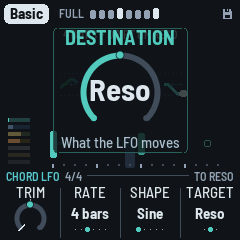
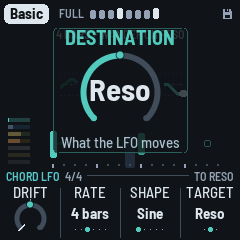
1.4.0: the LFO pages' Trim named Drift (the user's: as the layers' Vary on Form's Vary, the same name as the Form page's knob it scales), the Shape that was Drift (the wander alone) named Wander, and the Rate's; the trace's title ("4 BARS + WANDER ON CUTOFF"), the help lines, the reader, the manual,

diff --git a/web/emu/index.html b/web/emu/index.html
@@ -138,7 +138,7 @@ kbd { font: 600 .85em ui-monospace, Menlo, monospace; background: var(--card); b
 <section class="help" aria-label="How to play it">
   <div class="knobs">
     <h2>Pages and knobs</h2>
-    <p>One page a layer, each on its own button. The levels are on <b>OCT−</b> / <b>OCT+</b> (on a layer's page: 5 a press, held on; both together, quickly: the layer muted or back) and on the Arrangement page's channel strips (SEL, a part's white key held: its Level), whose meters show every part's level. <b>SELECT</b> is the DJ filter, on every page. The pages, as their buttons sit on the panel: Dub (FX), Chord (ENV), Bass (LFO), Setup (GLO), Form (HOME), Noise (SAVE), Pings (ARP), Drums (SEQ); the page's name is on the line above the knobs, at its left (with its place, 2/4), the voice at its right; the header shows where you are: the section and the phrase's eight bars, and in a song a hairline that is the whole song. A button with one page stays on it pressed again; one with several steps through them. Each layer's first page is its part (what it plays, and its <b>Vary</b>: a trim on the Form page's Vary, 0 following it, the far left Hold); its button pressed again opens its <b>voice page</b>: four knobs that shape its sound, most 0 in the middle (the voice as it is), −50 to +50 (the chord's Attack and the pings' Bend 0 to 100, from the voice's own); the drums have two, Kick and Hats. A third press opens its <b>FM page</b>: the algorithm (drawn on the screen), the upper operators' ratio, the feedback (on an FM voice); the chord's has its <b>Colour</b> too and the bass's its <b>Bite</b>, on every voice. The chord's four pages: <b>Chord</b> (Density, Throws, Change, Vary), <b>Chord voice</b> (Cutoff, Reso, Attack, Decay), <b>Chord FM</b> (Algo, Ratio, Feedback, Colour) and <b>Chord LFO</b>, its slow movement: a wave in time with the music and a slow random wander with it, like a hand riding the filter, as much as the Form page's <b>Drift</b> says (<b>Trim</b>: more or less than Drift, 0 as Drift, the far left still; Rate, 1 to 32 bars; Shape, the last <b>Drift</b>: the wander alone; <b>Target</b>, where it goes: Cutoff, Reso or Colour, the knob it moves showing it, also on ALGORITHM; the screen draws the path over the last 16 bars, at one scale: it grows and shrinks with Drift and the Trim). The noise has one too (SAVE a third time); the bass and the pings have none. A knob centred on 0 stops there on its way through (three clicks to leave it). On a layer's page, <b>ALGORITHM</b> changes its voice (the chord: Saws, Keys, Organ, Pad, Bell, Tonewheel, Noise; the pings: Blip, Marimba, Glass, Wood, Drop; the bass: Sub, Punch, Rubber, Pluck, Growl; the drums' kit: Tight, Deep, Punch, Soft, Dusty). Each piece remembers its own settings.</p>
+    <p>One page a layer, each on its own button. The levels are on <b>OCT−</b> / <b>OCT+</b> (on a layer's page: 5 a press, held on; both together, quickly: the layer muted or back) and on the Arrangement page's channel strips (SEL, a part's white key held: its Level), whose meters show every part's level. <b>SELECT</b> is the DJ filter, on every page. The pages, as their buttons sit on the panel: Dub (FX), Chord (ENV), Bass (LFO), Setup (GLO), Form (HOME), Noise (SAVE), Pings (ARP), Drums (SEQ); the page's name is on the line above the knobs, at its left (with its place, 2/4), the voice at its right; the header shows where you are: the section and the phrase's eight bars, and in a song a hairline that is the whole song. A button with one page stays on it pressed again; one with several steps through them. Each layer's first page is its part (what it plays, and its <b>Vary</b>: a trim on the Form page's Vary, 0 following it, the far left Hold); its button pressed again opens its <b>voice page</b>: four knobs that shape its sound, most 0 in the middle (the voice as it is), −50 to +50 (the chord's Attack and the pings' Bend 0 to 100, from the voice's own); the drums have two, Kick and Hats. A third press opens its <b>FM page</b>: the algorithm (drawn on the screen), the upper operators' ratio, the feedback (on an FM voice); the chord's has its <b>Colour</b> too and the bass's its <b>Bite</b>, on every voice. The chord's four pages: <b>Chord</b> (Density, Throws, Change, Vary), <b>Chord voice</b> (Cutoff, Reso, Attack, Decay), <b>Chord FM</b> (Algo, Ratio, Feedback, Colour) and <b>Chord LFO</b>, its slow movement: a wave in time with the music and a slow random wander with it, like a hand riding the filter, as much as the Form page's <b>Drift</b> says (<b>Drift</b>: more or less than Form's Drift, 0 as Form's, the far left still; Rate, 1 to 32 bars; Shape, the last <b>Wander</b>: the wander alone; <b>Target</b>, where it goes: Cutoff, Reso or Colour, the knob it moves showing it, also on ALGORITHM; the screen draws the path over the last 16 bars, at one scale: it grows and shrinks in height with Form's Drift and the page's). The noise has one too (SAVE a third time); the bass and the pings have none. A knob centred on 0 stops there on its way through (three clicks to leave it). On a layer's page, <b>ALGORITHM</b> changes its voice (the chord: Saws, Keys, Organ, Pad, Bell, Tonewheel, Noise; the pings: Blip, Marimba, Glass, Wood, Drop; the bass: Sub, Punch, Rubber, Pluck, Growl; the drums' kit: Tight, Deep, Punch, Soft, Dusty). Each piece remembers its own settings.</p>
     <div class="pages">
       <div>
         <h3>Form <span>HOME</span></h3>
@@ -173,7 +173,7 @@ kbd { font: 600 .85em ui-monospace, Menlo, monospace; background: var(--card); b
       <div>
         <h3>Noise <span>SAVE</span></h3>
         <dl>
-          <dt>Density, Vary</dt><dd>A crackle groove ringing on the chord: how many hits in two bars; how often the groove is drawn anew.</dd><dt>SAVE again: Noise voice</dt><dd>Air (the quiet hiss under it), Tone (the rings darker or brighter), Decay (how long each hit rings), Width (mono to wide). Its level on OCT− / OCT+; its plate and echo its channel strip's (the Arrangement page, white 5 held). ALGORITHM its character: Vinyl, Tape, Dust, Room, Machine.</dd><dt>SAVE a third time: Noise LFO</dt><dd>The noise moving, as the Chord LFO: Trim (on the Form page's Drift), Rate, Shape (the last, Drift, the wander alone), Target: Filter (a low-pass on the whole noise), Tone or Air (ALGORITHM too).</dd>
+          <dt>Density, Vary</dt><dd>A crackle groove ringing on the chord: how many hits in two bars; how often the groove is drawn anew.</dd><dt>SAVE again: Noise voice</dt><dd>Air (the quiet hiss under it), Tone (the rings darker or brighter), Decay (how long each hit rings), Width (mono to wide). Its level on OCT− / OCT+; its plate and echo its channel strip's (the Arrangement page, white 5 held). ALGORITHM its character: Vinyl, Tape, Dust, Room, Machine.</dd><dt>SAVE a third time: Noise LFO</dt><dd>The noise moving, as the Chord LFO: Drift (on the Form page's Drift), Rate, Shape (the last, Wander, the wander alone), Target: Filter (a low-pass on the whole noise), Tone or Air (ALGORITHM too).</dd>
         </dl>
       </div>
       <div>
@@ -344,8 +344,8 @@ function hit(c, cls, attrs, parent = controls) {
 }
 // what each control does (the Buttons list below says the same); a page button's light is its page, PLAY's
 // playing, REC's dub hold: those are toggle buttons (aria-pressed), the others plain ones
-const TIP = { FX: "The Dub page: the echo and the plate; again, the Echo page (Blur, Tone, Size, Cloud).", SEL: "The Arrangement page: every part's level on a meter; the knobs are Width, Wet and Duck (the dub mixer's rides the Form page's Drift); the white keys 1 to 6 mute the parts (the chord, pings, bass, kick, hats, noise; held: that part's channel strip, its Level, Echo, Plate and Filter), the black keys 1 to 5 (the part of the white key on their left; the kick none) solo a part with a tap and throw it into the echo held, white 7 is the gap, white 8 to 11, held, make the dub moves (open, shut, drop, echo), and white 12 to 16, held, five of the grid's effects. Held: Lock, the groove kept phrase after phrase.", ENV: "The Chord page (Density, Throws, Change, Vary); again, Chord voice (Cutoff around the piece's own, Reso, Attack, Decay); again, Chord FM (Algo, Ratio, Feedback, Colour); again, Chord LFO (Trim, Rate, Shape, Target; ALGORITHM its Target too).", LFO: "The Bass page (Groove, Vary, Density, Fifth); again, Bass voice (Octave, Shape, Gate, Glide); again, Bass FM (Algo, Ratio, Feedback, Bite).", EDIT: "A tap: the Chords page, eight slots (KNOB 1 the slot, the keys its root, KNOB 2 its kind, KNOB 3 its type, KNOB 4 Play: Endless, the walk writing slot 8 as they move up, or Loop, the eight in turn). Held: the next chord.",
-  GLO: "The Setup page; again, Song mode (Endless, Song, Set). Held: saves all eight pieces; held on: the piece back to its recipe.", HOME: "The Form page (Energy, Vary, Motion, Drift); again, the Song page (Intro, Main, Outro, Kind); again, the Key page (tempo, root, mode, swing). Held with PLAY: the outro from the next phrase (again: back to the main). Held on (1.5 s): a shake of everything. Hold it and turn SELECT for the tempo.", SAVE: "The Noise page: Density, Vary; ALGORITHM its character. Again: Noise voice (Air, Tone, Decay, Width); again: Noise LFO (Trim, Rate, Shape, Target; ALGORITHM its Target too). Held: a nudge to the noise; held on: a shake.",
+const TIP = { FX: "The Dub page: the echo and the plate; again, the Echo page (Blur, Tone, Size, Cloud).", SEL: "The Arrangement page: every part's level on a meter; the knobs are Width, Wet and Duck (the dub mixer's rides the Form page's Drift); the white keys 1 to 6 mute the parts (the chord, pings, bass, kick, hats, noise; held: that part's channel strip, its Level, Echo, Plate and Filter), the black keys 1 to 5 (the part of the white key on their left; the kick none) solo a part with a tap and throw it into the echo held, white 7 is the gap, white 8 to 11, held, make the dub moves (open, shut, drop, echo), and white 12 to 16, held, five of the grid's effects. Held: Lock, the groove kept phrase after phrase.", ENV: "The Chord page (Density, Throws, Change, Vary); again, Chord voice (Cutoff around the piece's own, Reso, Attack, Decay); again, Chord FM (Algo, Ratio, Feedback, Colour); again, Chord LFO (Drift, Rate, Shape, Target; ALGORITHM its Target too).", LFO: "The Bass page (Groove, Vary, Density, Fifth); again, Bass voice (Octave, Shape, Gate, Glide); again, Bass FM (Algo, Ratio, Feedback, Bite).", EDIT: "A tap: the Chords page, eight slots (KNOB 1 the slot, the keys its root, KNOB 2 its kind, KNOB 3 its type, KNOB 4 Play: Endless, the walk writing slot 8 as they move up, or Loop, the eight in turn). Held: the next chord.",
+  GLO: "The Setup page; again, Song mode (Endless, Song, Set). Held: saves all eight pieces; held on: the piece back to its recipe.", HOME: "The Form page (Energy, Vary, Motion, Drift); again, the Song page (Intro, Main, Outro, Kind); again, the Key page (tempo, root, mode, swing). Held with PLAY: the outro from the next phrase (again: back to the main). Held on (1.5 s): a shake of everything. Hold it and turn SELECT for the tempo.", SAVE: "The Noise page: Density, Vary; ALGORITHM its character. Again: Noise voice (Air, Tone, Decay, Width); again: Noise LFO (Drift, Rate, Shape, Target; ALGORITHM its Target too). Held: a nudge to the noise; held on: a shake.",
   ARP: "The Pings page (Density, Vary); again, Pings voice (Octave, Tone, Length, Bend); again, Pings FM (Algo, Ratio, Feedback, Upper).", SEQ: "The Drums page (Kick, Hits, Vary). Again: Kick (Tune, Length, Punch, Rumble); again: Hats (Level, Tone, Length); again: the Pattern page (five lanes, sixteen steps on the white keys).", PLAY: "Play or rest (in Song or Set mode, a song from its intro). With HOME held: the outro.", REC: "Tap: dub hold (the echo and the cloud repeat what they hold; the chord holds). Hold: the effects grid, played on the white keys.",
   "OCT-": "On a layer's page, its level down (held: on). With OCT+, quickly: the layer muted or back.", "OCT+": "On a layer's page, its level up (held: on). With OCT-, quickly: the layer muted or back.", SELECT: "The DJ filter, on every page: left shut, right open, Off in the middle. With HOME held, the tempo.",
   ALGORITHM: "On a layer's page, its voice; on the Chords page, the walk; elsewhere, the screen (ripples, scope, spectrum, tape).", PRESETS: "The piece.", KNOB1: "The first value on the screen.", KNOB2: "The second value on the screen.",

diff --git a/firmware/src/app/ui.c b/firmware/src/app/ui.c
@@ -262,8 +262,8 @@ static const char *const KNOB_LABEL[NVIEWS][4] = {
     {"Density", "Vary", "", ""},
     {"Blur", "Tone", "Size", "Cloud"},
     {"Width", "Plate", "Echo", ""},
-    {"Trim", "Rate", "Shape", "Target"},
-    {"Trim", "Rate", "Shape", "Target"},
+    {"Drift", "Rate", "Shape", "Target"},
+    {"Drift", "Rate", "Shape", "Target"},
     {"Level", "Tone", "Length", ""},
     {"Air", "Tone", "Decay", "Width"},
     {"Level", "Echo", "Plate", "Filter"},   /* (1.4.0, format 28, Robert's: the Low cut a centred filter) */
@@ -312,9 +312,9 @@ static const char *const KNOB_HELP[NVIEWS][4] = {
     {"Clean repeats, to a dissolving wash", "The repeats darker, or brighter", "How long the plate rings",
      "The reverb through the grain cloud"},
     {"The noise mono, to wide", "How much of it rings in the plate", "How much of it goes into the echo", ""},
-    {"More or less than Drift; left: still", "How long the wave: 1 to 32 bars", "The wave; Drift: a wander alone",
+    {"More or less than Drift; left: still", "How long the wave: 1 to 32 bars", "The wave; Wander: the wander alone",
      "What it moves: Cutoff, Reso, Colour"},
-    {"More or less than Drift; left: still", "How long the wave: 1 to 32 bars", "The wave; Drift: a wander alone",
+    {"More or less than Drift; left: still", "How long the wave: 1 to 32 bars", "The wave; Wander: the wander alone",
      "What it moves: Filter, Tone, Air"},
     {"The hats' level against the kick", "The hats, dark to bright", "How long the hats ring", ""},
     {"The hiss under it, softer or more", "The rings darker, or brighter", "How long each hit rings on the chord",
@@ -3433,20 +3433,20 @@ static void draw_lfo(int k)
               reach = (int)(re * (float)rr + 0.5f);   /* (the wave's and the wander's together) */
     int32_t x, y0 = yc, yy;
     char t[32], tt[32];
-    if (d > 0) {                                 /* (what moves it: "4 BARS", "4 BARS + DRIFT", "DRIFT") */
+    if (d > 0) {                                 /* (what moves it: "4 BARS", "4 BARS + WANDER", "WANDER") */
         int j = 0;
         en_param_text(k ? P_NLRATE : P_CLRATE, proj.par[k ? P_NLRATE : P_CLRATE], t);
         while (t[j])
             j++;
         if (dw > 0)
-            t[j++] = ' ', t[j++] = '+', t[j++] = ' ', t[j++] = 'D', t[j++] = 'r', t[j++] = 'i', t[j++] = 'f', t[j++] = 't';
+            t[j++] = ' ', t[j++] = '+', t[j++] = ' ', t[j++] = 'W', t[j++] = 'a', t[j++] = 'n', t[j++] = 'd', t[j++] = 'e', t[j++] = 'r';
         t[j] = 0;
     } else {
         t[0] = 0;
         if (dw > 0)
-            t[0] = 'D', t[1] = 'r', t[2] = 'i', t[3] = 'f', t[4] = 't', t[5] = 0;
+            t[0] = 'W', t[1] = 'a', t[2] = 'n', t[3] = 'd', t[4] = 'e', t[5] = 'r', t[6] = 0;
     }
-    if (t[0]) {                                  /* (1.4.0: where it goes, "4 BARS + DRIFT ON RESO", "... ON AIR") */
+    if (t[0]) {                                  /* (1.4.0: where it goes, "4 BARS + WANDER ON RESO", "... ON AIR") */
         const char *w = k ? EN_NLDEST_NAME[proj.par[P_NLDEST] % EN_NNLDEST] : EN_CLDEST_NAME[proj.par[P_CLDEST] % EN_NCLDEST];
         int j = 0;
         while (t[j])

diff --git a/firmware/src/dsp/amb.c b/firmware/src/dsp/amb.c
@@ -316,7 +316,7 @@ EN_COLD void en_piece(int i, int16_t *par, uint16_t *pool)
 }
 
 const char *const EN_CV_NAME[EN_NCV] = {"Saws", "Keys", "Organ", "Pad", "Bell", "Tonewheel", "Noise"};
-const char *const EN_LFO_SHAPE[EN_NLSHAPE] = {"Sine", "Triangle", "Ramp up", "Ramp down", "Drift"};
+const char *const EN_LFO_SHAPE[EN_NLSHAPE] = {"Sine", "Triangle", "Ramp up", "Ramp down", "Wander"};
 const char *const EN_CLDEST_NAME[EN_NCLDEST] = {"Cutoff", "Reso", "Colour"};
 const char *const EN_NLDEST_NAME[EN_NNLDEST] = {"Filter", "Tone", "Air"};
 const char *const EN_SMODE_NAME[EN_NSMODE] = {"Endless", "Song", "Set"};
@@ -445,7 +445,7 @@ EN_COLD void en_param_text(int i, int v, char *b)
     else if (i == P_DRIFT && !en_drift_bars(v))
         s = "Hold";
     else if ((i == P_CLRATE || i == P_NLRATE) && !en_lfo_bars(v))
-        s = "Drift";                             /* (1.4.0: the LFOs' rates, the last a wander) */
+        s = "Wander";                            /* (1.4.0: the LFOs' rates, the last a wander) */
     else if ((i == P_CLRATE || i == P_NLRATE) && en_lfo_bars(v) == 1)
         s = "1 bar";
     else if (i == P_CLSHAPE || i == P_NLSHAPE)

diff --git a/docs/MANUAL.md b/docs/MANUAL.md
@@ -555,7 +555,7 @@ GLO held on, RESET (red); SEL held, LOCK.
   line in the middle is the knob's own value (the chord's: its Target's knob, Cutoff, Reso or
   Colour; the noise's filter half open), with the bars ticked on it; the dotted lines above and below
   are the reach of the wave and the wander together, at one scale (the most it can reach: Drift and
-  the Trim grow and shrink it). What moves it is written over it ("4 BARS",
+  the LFO page's Drift grow and shrink it). What moves it is written over it ("4 BARS",
   "4 BARS + DRIFT", "DRIFT"), and, the chord's, where it goes ("4 BARS + DRIFT ON CUTOFF").
 
 ![The Dub page with FEEDBACK lit as it turns, set to 6.7 s, the big ring in the middle saying HOW LONG THE REPEATS GO ON; ECHO 55, ECHO TIME 1/8., REVERB 35](img/screen-turning.png "Turning Feedback on the Dub page")
@@ -873,34 +873,35 @@ Each stays when the voice changes, and is kept by the piece.
 
 ### The LFO pages
 
-![The Chord LFO page: TO CUTOFF, TRIM, RATE 4 bars, SHAPE Sine, TARGET Cutoff, 4 BARS + DRIFT ON CUTOFF over the filter's sine riding its wander over the last 16 bars in the middle](img/screen-chord-lfo.png "The Chord LFO page")
+![The Chord LFO page: TO CUTOFF, DRIFT, RATE 4 bars, SHAPE Sine, TARGET Cutoff, 4 BARS + WANDER ON CUTOFF over the filter's sine riding its wander over the last 16 bars in the middle](img/screen-chord-lfo.png "The Chord LFO page")
 
 Two layers move by themselves, slowly: the chord's filter (or, by its Target, its resonance or
 its Colour) and a filter on the whole noise, its hits and its hiss (or, by its Target, its Tone
 or its Air). Each moves two ways at once, a
 **wave** locked to the bars and a **wander**, slow and random, half each (or the wander alone: the Shape
-Drift); how far, the Form page's **Drift** (1.4.0, the variety plan: each its own Depth and Drift
-before), each page's Trim more or less of it. Each has an
+Wander); how far, the Form page's **Drift** (1.4.0, the variety plan: each its own Depth and Drift
+before), each page's own **Drift** more or less of it (the same name as Form's, as the layers' Vary: it is
+Form's Drift for this LFO). Each has an
 **LFO page**: ENV a fourth time (Chord, Chord voice, Chord FM, **Chord LFO**, then back to Chord), and SAVE
 a third time (Noise, Noise voice, **Noise LFO**, then back to Noise). The button blinks while you're
 there. KNOB 4, or ALGORITHM, picks where its LFO goes, its **Target** (below); the noise's
 character is on its other pages. The middle shows the LFO's path,
 the last 16 bars of it (see [The screen](#4-the-screen)), at one scale, the most it can reach: it grows
-and shrinks with Drift and the Trim, flat when still; the lane under it is the layer's, as on its
+and shrinks in height with Form's Drift and the page's, flat when still; the lane under it is the layer's, as on its
 page.
 
-- **Trim:** more or less than Drift for this LFO, centred: 0 (the middle, the notch) as Drift says,
-  +50 twice as far, the far left **Still** (it doesn't move, whatever Drift says). The chord's filter
+- **Drift:** more or less than Form's Drift for this LFO, centred: 0 (the middle, the notch) as Form's says,
+  +50 twice as far, the far left **Still** (it doesn't move, whatever Form's Drift says). The chord's filter
   goes about an octave either way at Drift 50 (the wave's half and the wander's half together), 1.7 at
-  100, 2.2 at most (Drift 100, Trim +50); on Reso or Colour as far along their knob (below). The
+  100, 2.2 at most (Form's Drift 100, this one +50); on Reso or Colour as far along their knob (below). The
   noise's filter: open at the top of its reach, closing towards the bottom, up to three and a half
-  octaves (from 20 kHz down to about 1.4 kHz) at Drift 100 and Trim +50 (on Tone or Air: below).
+  octaves (from 20 kHz down to about 1.4 kHz) at Form's Drift 100 and this one +50 (on Tone or Air: below).
 - **Rate:** how long the wave, a switch, one position a click: **1 bar** (one redonda (whole note)),
   **2, 4, 8, 16 or 32 bars**, locked to the bars.
 - **Shape:** the wave's shape: **Sine**, **Triangle**, **Ramp up** (a slow rise, then back at once),
-  **Ramp down**, each with the wander under it, half and half; or **Drift**, the wander alone, no wave.
+  **Ramp down**, each with the wander under it, half and half; or **Wander**, the wander alone, no wave.
   The sine's and the triangle's top comes a quarter of the way into the cycle.
-- **The wander** (every Shape's half, Drift's whole). Like a hand riding the filter: every 8 to 32 bars it picks a new place somewhere
+- **The wander** (every Shape's half, Wander's whole). Like a hand riding the filter: every 8 to 32 bars it picks a new place somewhere
   within its reach (a real move, not a twitch), and glides there, smoothly, easing in and out, over
   most of the time until the next; then it rests there a little. Its moves don't wait for a barline,
   it never repeats a path, and the chord's and the noise's wander each on their own. It runs under
@@ -918,7 +919,7 @@ page.
 - **The noise's Target** (KNOB 4, or ALGORITHM, on the Noise LFO page): **Filter** (the low-pass on
   the whole noise, as ever), **Tone** (the Noise voice's Tone: its rings and its hiss darker and
   brighter) or **Air** (the hiss's level, rising and falling under the hits). On Tone and Air they go a
-  quarter of the knob's sweep at Drift 100 (with Trim +50: half of it either way), never past the
+  quarter of the knob's sweep at Drift 100 (with this page's Drift +50: half of it either way), never past the
   knob's own ends; the filter then stays open. The big ring names it
   (DESTINATION), the rule says TO FILTER, TO TONE or TO AIR, and on the Noise voice page the Tone or
   Air knob shows it moving, as the chord's do (the Filter has no knob: the LFO page's path shows it).
@@ -929,9 +930,9 @@ page.
 ![The Chord LFO page, ALGORITHM turned: the big ring, DESTINATION over it, Reso in it, What the LFO moves under it; TO RESO on the rule](img/screen-chord-lfo-dest.png "The Chord LFO page: the Destination")
 
 Every piece moves (its Drift 27 to 80). Chamber's and Haze's chords, the slow, ambient ones, wander
-alone (the Shape Drift); Fog's and Haze's noise too. The others add a wave: Basic, Pressure and
+alone (the Shape Wander); Fog's and Haze's noise too. The others add a wave: Basic, Pressure and
 Concrete's chords on 4 bars, Steppers' on 2, Night Drive's on 8 (each piece's in
-[Parameters](#12-parameters)). The defaults: a sine, 4 bars, Trim 0.
+[Parameters](#12-parameters)). The defaults: a sine, 4 bars, Drift 0.
 
 The bass and the pings have no LFO (DUB-1 1.4.0: the records never move a dub bass that way, and the
 pings' was barely heard). The bass moves with the arrangement and the hand: Energy, Motion, a
@@ -1006,7 +1007,7 @@ spectrum or tape (see [The screen](#4-the-screen)). **HOME** again: the Song pag
   arrangement can still breathe, and a busy one can be dry.
 - **Drift** (1.4.0, the variety plan): how much the sound moves, from still to restless, one amount for
   all of it: the chord's and the noise's LFOs (their wave and their random wander; see
-  [The LFO pages](#the-lfo-pages): each page's Trim more or less of it), how far the filter's long
+  [The LFO pages](#the-lfo-pages): each LFO page's Drift more or less of it), how far the filter's long
   sweeps go (about 1.6 octaves either way at 50, a little more above, a new place every 4 to 14 bars, off the
   phrase's line), how much the stabs' filter, the echo's heads, its band-pass and its feedback wander
   (Motion's until now), and the dub mixer's slow rides of the parts' levels and sends (the Arrangement
@@ -1443,7 +1444,7 @@ Endless, as it played before. From 1.4.0's song structure (format 26), each piec
 recipe. From 1.4.0's dub mixer (format 27), each strip's Low cut (0–100, a high-pass) becomes its
 Filter's high-pass at the same cutoff, as near as a step goes (a Low cut of 100, about 600 Hz, is +36);
 the tempo and the scales keep their values (the new range only reaches further). From the variety plan's step 1 (format 29) and before, each piece's LFOs' Depth and Drift and its
-Mixer become the Form page's Drift and the LFOs' Trims (and the Shape Drift where its wave was off), as near
+Mixer become the Form page's Drift and the LFO pages' Drifts (and the Shape Wander where its wave was off), as near
 as they sounded, and the throws are set at the chord's Vary as it was. To get a changed piece's
 whole new recipe, hold GLO for 1.5 s on it.
 Projects saved by AMB-1 aren't read by DUB-1: the first start after installing it begins with the
@@ -1533,7 +1534,7 @@ The defaults are Basic's; each piece has its own.
 | Noise voice | Decay | 0–100 (about 70 ms – over a second) | 50 |
 | Noise voice | Width | 0–100 (50: as the pieces have it) | 50 |
 | Noise pages | Character (ALGORITHM) | Vinyl, Tape, Dust, Room, Machine | Vinyl |
-| Noise LFO | Trim | Still, −49 – 0 – +50 (on Drift: none – as Drift – twice) | +5 |
+| Noise LFO | Drift | Still, −49 – 0 – +50 (on Drift: none – as Drift – twice) | +5 |
 | Noise LFO | Rate | 1, 2, 4, 8, 16, 32 bars | 4 bars |
 | Noise LFO | Shape | Sine, Triangle, Ramp up, Ramp down (each with the wander), Drift (the wander alone) | Sine |
 | Noise LFO | Target | Filter (on the whole noise, closing up to 3.5 octaves), Tone, Air | Filter |
@@ -1593,7 +1594,7 @@ The defaults are Basic's; each piece has its own.
 | Chord, Pings, Bass FM | Feedback (from the voice's own) | 0–100 | 0 |
 | Chord FM | Colour (every chord voice) | −50 – +50 | 0 |
 | Bass FM | Bite (every bass voice) | −50 – +50 | 0 |
-| Chord LFO | Trim | Still, −49 – 0 – +50 (on Drift: none – as Drift, about ±1 octave at 50 – twice) | −2 |
+| Chord LFO | Drift | Still, −49 – 0 – +50 (on Drift: none – as Drift, about ±1 octave at 50 – twice) | −2 |
 | Chord LFO | Rate | 1, 2, 4, 8, 16, 32 bars | 4 bars |
 | Chord LFO | Shape | Sine, Triangle, Ramp up, Ramp down (each with the wander), Drift (the wander alone) | Sine |
 | Chord LFO | Target | Cutoff, Reso, Colour | Cutoff |
@@ -1614,9 +1615,9 @@ each stab opens the filter. Each piece also has its own voices.
 | Pressure | Tonewheel | Wood | Growl | Deep | 35 | 65 |
 | Haze | Pad | Glass | Sub | Dusty | 25 | 35 |
 
-Drift and the LFOs, each piece's (the waves sines, each with its wander; "wander" the Shape Drift):
+Drift and the LFOs, each piece's (the waves sines, each with its wander; "wander" the Shape Wander):
 
-| Piece | Drift | Chord LFO (Trim, wave) | Noise LFO (Trim, wave) |
+| Piece | Drift | Chord LFO (Drift, wave) | Noise LFO (Drift, wave) |
 |---|---|---|---|
 | Basic | 41 | −2, 4 bars | +5, 4 bars |
 | Chamber | 27 | −25, wander | +50, 8 bars |
@@ -1627,8 +1628,8 @@ Drift and the LFOs, each piece's (the waves sines, each with its wander; "wander
 | Pressure | 43 | +3, 4 bars | −3, 4 bars |
 | Haze | 41 | −25, wander | −13, wander |
 
-(1.4.0, the variety plan's step 2: each piece's Drift and Trims as near as its LFOs' Depth and Drift and its
-Mixer sounded: Drift from how far its filter breathed, the Trims the reach each LFO had.)
+(1.4.0, the variety plan's step 2: each piece's Drift and its LFOs' Drifts as near as its LFOs' Depth and Drift and its
+Mixer sounded: Drift from how far its filter breathed, the LFOs' Drifts the reach each LFO had.)
 
 ---
 

diff --git a/README.md b/README.md
@@ -35,10 +35,10 @@ installer can reach.
 | FX · ENV · LFO · GLO / HOME · SAVE · ARP · SEQ | The pages, as the buttons sit: Dub (the echo and the plate: Echo, Echo time, Feedback in seconds, Reverb), Chord (Density, Throws, Change: how long a chord lasts, Vary: how often the stabs' pattern turns), Bass (Groove, Vary, Density, Fifth), Setup (for every piece; GLO again: **Song mode**, Endless, Song or Set, a set the pieces in turn to the last) / Form (Energy, Vary, Motion, **Drift**: how much the sound moves, the LFOs, the filter's sweeps, the echo's wander and the **dub mixer**'s slow rides of the parts' levels and sends), Noise (Density, Vary), Pings (Density, Vary), Drums (Kick: its shapes, Hits, Vary): each layer's part, its Vary a trim on the Form page's Vary (0 follows it, the far left Hold); KNOB 1–4 set their four values; the line above them names the page (and its place, 2/4) at its left and the voice at its right; the big ring says what the one turning does. The header shows where you are: the section (or INTRO, OUTRO) and the phrase's eight bars, and in a song a hairline that is the whole song. FX again: the Echo page (Blur, Tone, Size, Cloud). HOME again: the **Song** page (the piece's Intro, Main and Outro in bars, a phrase a click, and its Kind: Ambient first or Pulse first; the song's shape on the screen, the song's hairline along the header while it plays); again: the Key page (tempo, root, mode, swing). A layer's button again: its voice page (Chord voice: Cutoff around the piece's own, Reso, Attack, Decay; Pings voice: Octave, Tone, Length, Bend; Bass voice: Octave, Shape, Gate, Glide; the drums' Kick: Tune, Length, Punch, Rumble, then Hats: Level, Tone, Length). A button with one page stays on it pressed again; one with several steps through them |
 | SELECT | The DJ filter, on every page (left shut, right open, Off in the middle; a ring shows it); with HOME held, the tempo |
 | SEQ, twice, three, four times | The Kick page, the Hats page, then the **Pattern page**: five lanes (kick, shaker, open hat, rim, clap) of sixteen steps on the white keys, accents, chance |
-| ALGORITHM | On a layer's page, its voice (7 chord, 5 ping, 5 bass voices, 5 kits); on the Chords page, the walk (Home, Wander, Free); on the Noise page, its character; on the Chord LFO page, where the chord's LFO goes (Cutoff, Reso, Colour); elsewhere, the screen (ripples, scope, spectrum, tape). The mode is on the Key page (HOME a third time). A layer's button a third time: its FM page (the algorithm, ratio, feedback; the chord's Colour and the bass's Bite, on every voice, FM or not; the pings' Upper, operators 3 and 4's ratio). ENV a fourth time: the **Chord LFO** page (a wave on the filter and a slow random wander with it, like a hand riding the filter, as much as Drift says: Trim, more or less of it, Rate 1 to 32 bars, Shape, the last Drift the wander alone, Target: Cutoff, Reso or Colour); the bass and the pings have no LFO |
+| ALGORITHM | On a layer's page, its voice (7 chord, 5 ping, 5 bass voices, 5 kits); on the Chords page, the walk (Home, Wander, Free); on the Noise page, its character; on the Chord LFO page, where the chord's LFO goes (Cutoff, Reso, Colour); elsewhere, the screen (ripples, scope, spectrum, tape). The mode is on the Key page (HOME a third time). A layer's button a third time: its FM page (the algorithm, ratio, feedback; the chord's Colour and the bass's Bite, on every voice, FM or not; the pings' Upper, operators 3 and 4's ratio). ENV a fourth time: the **Chord LFO** page (a wave on the filter and a slow random wander with it, like a hand riding the filter, as much as Form's Drift says: Drift, more or less of it for this LFO, Rate 1 to 32 bars, Shape, the last Wander the wander alone, Target: Cutoff, Reso or Colour); the bass and the pings have no LFO |
 | PRESETS | The piece (eight of them) |
 | OCT− / OCT+ | On a layer's page (Chord, Pings, Bass, Drums, Noise): its level, 5 a press (held: on), shown as a ring; both together, quickly: the layer muted or back, its level kept (the same mutes as the Arrangement page's); held 5 s: the update mode |
-| SAVE | The Noise page (Density, Vary; ALGORITHM its character: Vinyl, Tape, Dust, Room, Machine); again, the Noise voice (Air, Tone, Decay, Width); again, the **Noise LFO** page (Trim, Rate, Shape, Target, as the chord's: Filter, a low-pass on the whole noise, Tone or Air); held, a nudge to the noise |
+| SAVE | The Noise page (Density, Vary; ALGORITHM its character: Vinyl, Tape, Dust, Room, Machine); again, the Noise voice (Air, Tone, Decay, Width); again, the **Noise LFO** page (Drift, Rate, Shape, Target, as the chord's: Filter, a low-pass on the whole noise, Tone or Air); held, a nudge to the noise |
 | GLO | The Setup page; held, saves (held on, the piece back to its recipe) |
 
 Hold a layer's button (ENV, ARP, LFO, SEQ) for a nudge: its sound a small step somewhere new. Every
